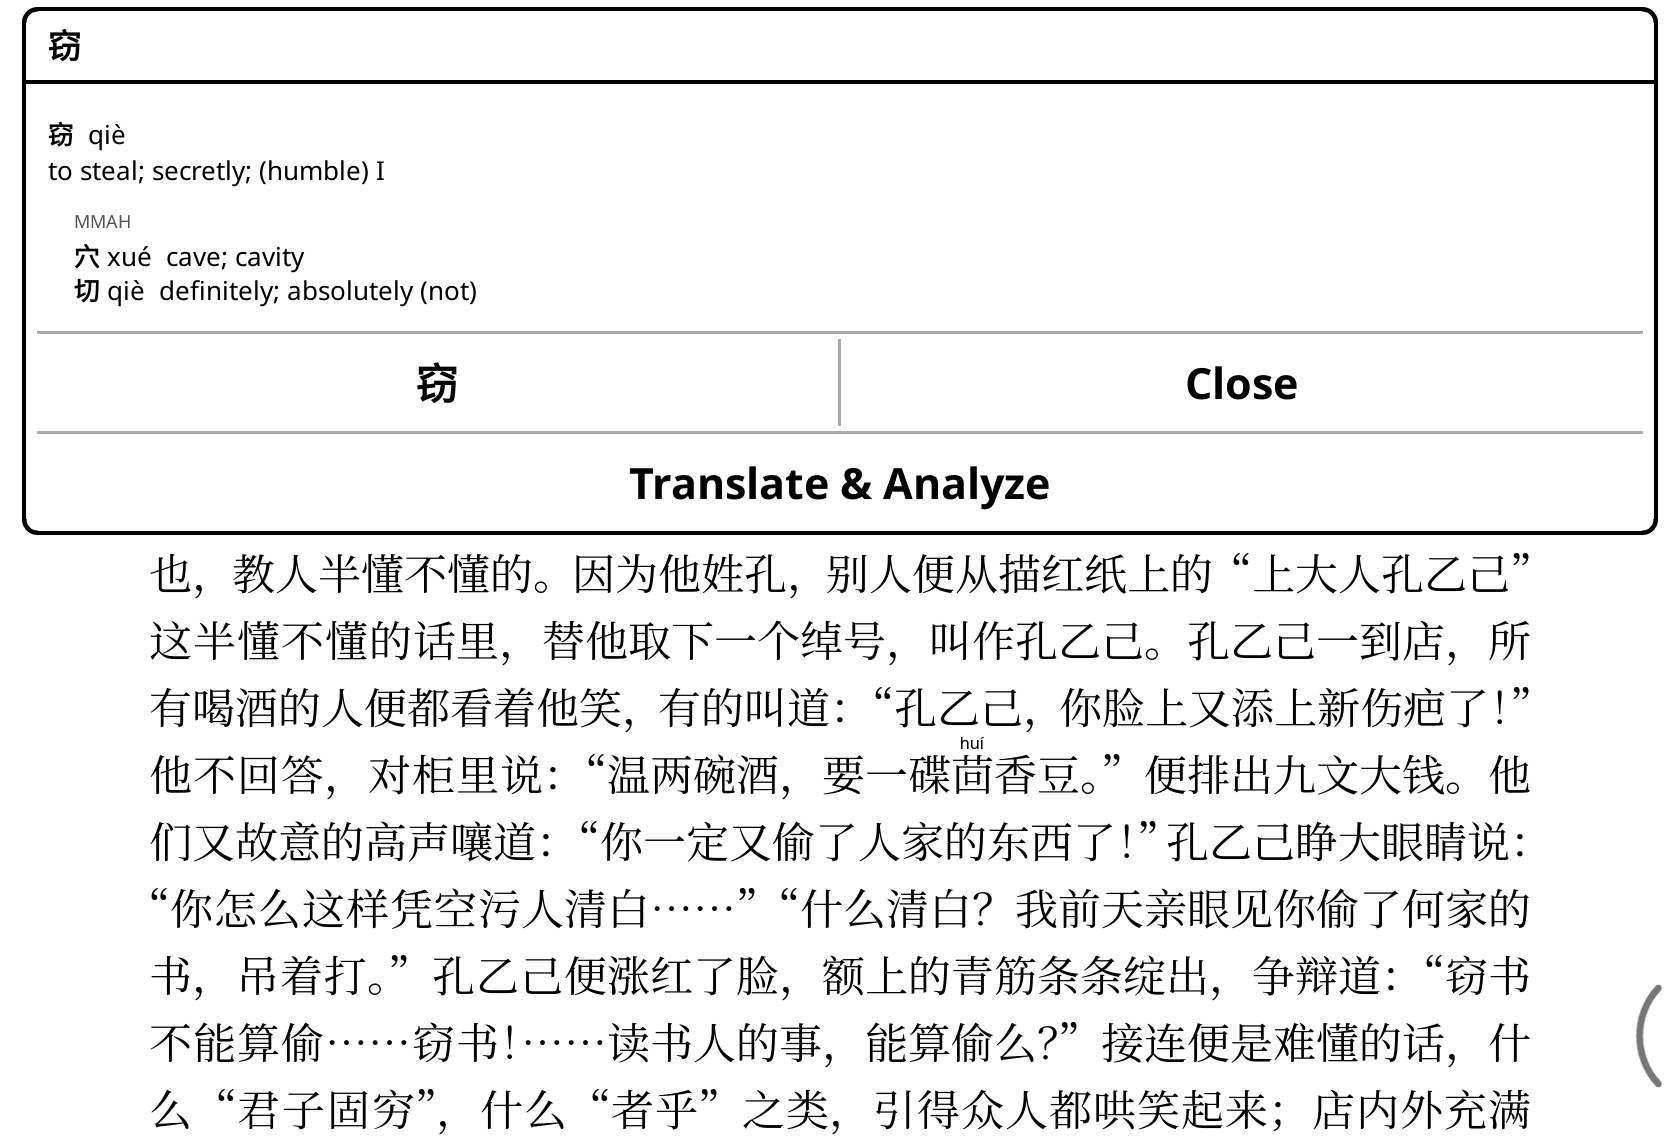
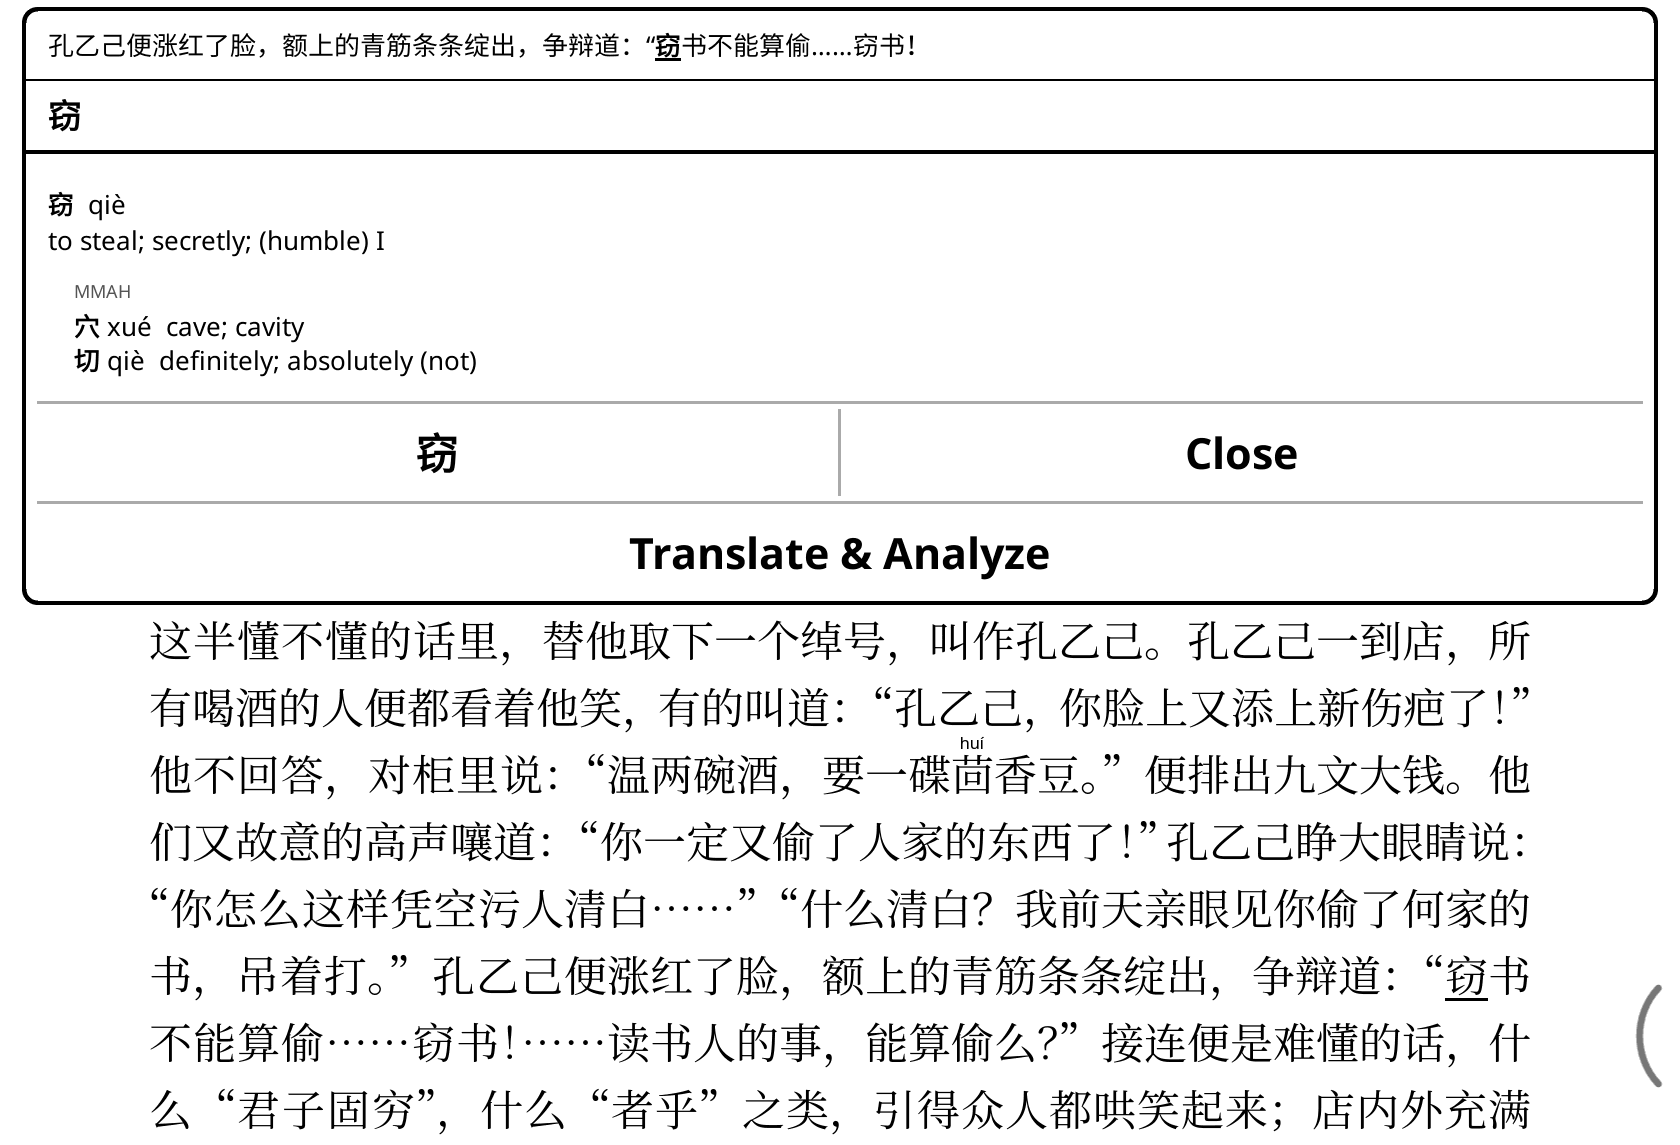
Release 2.0.0: context line and page underline
Version 2.0.0, CHANGELOG with a since-1.0 summary, README text for the
popup's context line and the page underline, new gated screenshots (main
image now taps 密 so the line shows text on both sides), handoff removed.
Database unchanged (SHA-256 20cc7ff8…).

diff --git a/tools/make_screenshots.py b/tools/make_screenshots.py
@@ -84,9 +84,11 @@ PAGES = {
 # screen position, lines the popup must show), then the crop (y0, y1) of each
 # frame: frame 0 is the page before any tap, frame k the screen after tap k.
 SHOTS = {
-    "main": dict(page="sg1", taps=[("涓", 1, (520, 1150), [
-        "**涓**  juān", "**氵** shuǐ", "**肙** yuān", "→ sound (same ending)",
-        "[Wikt]", "**中涓**  zhōngjuān", "(archaic) eunuch"])],
+    # 密, two thirds into the page's longest sentence: the popup's context
+    # line shows text on both sides of it.
+    "main": dict(page="sg1", taps=[("密", 1, (172, 1150), [
+        "**密**  mì", "**宓** mì  still; silent  → sound (same sound)", "**山** shān  mountain  → meaning",
+        "[Wikt]", "**不密**  bùmì", "(literary) not well thought out; (literary) not secret"])],
         frames=[(1, (95, 1185))]),
     "context": dict(page="kyj14", taps=[("间", 1, (773, 500), [
         "**间**  jiàn · likely here", "**间或**  jiànhuò · decides 间's reading"])],
@@ -94,7 +96,7 @@ SHOTS = {
     "components": dict(page="kyj13", taps=[("茴", 1, (988, 790), [
         "**茴**  huí", "**艹** cǎo  grass; plant (草字头)  → meaning",
         "**回** huí  to go back; to return  → sound (same sound)", "**茴香豆**  huíxiāngdòu"])],
-        frames=[(1, (245, 1018))]),
+        frames=[(1, (247, 1019))]),
     "traditional": dict(page="aq59", taps=[("观", 1, (170, 965), [
         "**观**  guān · likely here", "traditional 觀:", "**雚** guàn", "→ sound (same sound)",
         "simplified: 雚 → 又", "**观音**  Guānyīn · decides 观's reading"])],
@@ -104,7 +106,7 @@ SHOTS = {
         frames=[(1, (140, 1120)), (2, (20, 700))]),
     "labels": dict(page="sg1", taps=[("秋", 1, (775, 665), [
         "**秋**  qiū", "[MMAH]", "[MOE]", "**秋月春风**  qiū yuè chūn fēng", "[Wikt]", "**秋月**  qiūyuè"])],
-        frames=[(1, (125, 1138))]),
+        frames=[(1, (127, 1137))]),
     "translate": dict(page="kyj13", taps=[("窃", 1, (1465, 995), ["**窃**  qiè"])],
         frames=[(1, (15, 1160))]),
     # Page 1 with pinyin off, then on: the plugin adds line space where it
@@ -163,7 +165,8 @@ def settings_variant(original, pinyin=True):
     keys = {"chinesehelper_threshold": THRESHOLD, "chinesehelper_pinyin_enabled": "true" if pinyin else "false",
             "chinesehelper_popup_enabled": "true", "chinesehelper_popup_text_pct": 60,
             "chinesehelper_labels": '"fallback"', "chinesehelper_uncertain": '"both"',
-            "chinesehelper_components": "true", "night_mode": "false", "autowarmth_control_nightmode": "false",
+            "chinesehelper_components": "true", "chinesehelper_popup_context": "true",
+            "chinesehelper_page_underline": "true", "night_mode": "false", "autowarmth_control_nightmode": "false",
             "debug": "true"}
     out = original
     for k in keys:

diff --git a/README.md b/README.md
@@ -11,24 +11,24 @@ the reading the character takes in this context: 行 is *háng* in 银行 but *x
 cutoff you choose: the hard ones get help and the rest of the page stays clean. It works on any
 reflowable book (EPUB, FB2, MOBI, TXT and the like) as soon as you open it.
 
-![The opening of 三国演义 第一回 on a Boox Go 7: the chapter title, and below the popup the last lines of the 话说天下大势 paragraph with pinyin above the rare characters only (gù over 锢, huàn over 宦, juān over 涓). The popup is open on 涓: juān, "brook; to select", "Juān: surname Juan"; its parts, labelled MMAH: 氵 shuǐ water → meaning, 肙 yuān "a small worm; to twist" → sound (same ending); then 中涓 zhōngjuān "(archaic) eunuch", labelled Wikt; buttons 涓, 中涓, Close and Translate & Analyze](docs/main.png)
+![The opening of 三国演义 第一回 on a Boox Go 7: the chapter title, then the popup on 密. At its top, the line 时有宦官曹节等弄权，窦武、陈蕃谋诛之，作事不密，反为所害，中涓自此愈横。 with 密 in bold and underlined; then 密 mì, "dense; close; … (bound form) secret; confidential …", "Mì: surname Mi"; its parts, labelled Wikt: 宓 mì still; silent → sound (same sound), 山 shān mountain → meaning; then 不密 bùmì "(literary) not well thought out; (literary) not secret", labelled Wikt; buttons 密, 不密, Close and Translate & Analyze. Below the popup, the last lines of the 话说天下大势 paragraph, with juān above 涓 and 密 underlined on the page](docs/main.png)
 
 <table>
 <tr>
 <td width="50%"><a href="#line-spacing"><img src="docs/off-on.png" alt="The 临江仙 that opens 三国演义, pinyin off (top) and on (bottom): with it on, only 樵 qiáo and 渚 zhǔ get pinyin, the rest of the page stays clean"></a><br><b>Pinyin only above the hard characters</b>, at the level you choose (here the default: outside the 3,500 most common)</td>
-<td width="50%"><a href="#the-popup"><img src="docs/context.png" alt="Popup for 间 in 孔乙己's 虽然间或没有现钱: 间 jiàn · likely here, jiān listed after it; 间或 jiànhuò · decides 间's reading, occasionally; now and then"></a><br><b>The reading it has here</b>, and the word that decides it: 间 is <i>jiàn</i> in 间或</td>
+<td width="50%"><a href="#the-popup"><img src="docs/context.png" alt="Popup for 间 in 孔乙己's 虽然间或没有现钱: at the top the line 但他在我们店里，品行却比别人都好，就是从不拖欠；虽然间或没有现钱，… with 间 marked; 间 jiàn · likely here, jiān listed after it; 间或 jiànhuò · decides 间's reading, occasionally; now and then"></a><br><b>The reading it has here</b>, and the word that decides it: 间 is <i>jiàn</i> in 间或</td>
 </tr>
 <tr>
-<td><a href="#character-components"><img src="docs/components.png" alt="Popup for 茴 in 孔乙己's 要一碟茴香豆: 茴 huí; its parts, labelled Wikt: 艹 cǎo grass; plant (草字头) → meaning, 回 huí to go back → sound (same sound); then 茴香豆 and 茴香"></a><br><b>What each character is made of</b>: 茴 is 艹 for the meaning and 回 <i>huí</i> for the sound</td>
-<td><a href="#character-components"><img src="docs/traditional.png" alt="Popup for 观 in 阿Q正传's 观音娘娘: 观 guān · likely here; traditional 觀: 雚 guàn (archaic) stork; heron → sound (same sound), 見 jiàn see → meaning, simplified: 雚 → 又; 观音 Guānyīn · decides 观's reading"></a><br><b>Parts the simplification hid</b>: 观 is read through 觀, 雚 <i>guàn</i> → sound</td>
+<td><a href="#character-components"><img src="docs/components.png" alt="Popup for 茴 in 孔乙己's 要一碟茴香豆: at the top the line 他不回答，对柜里说：“温两碗酒，要一碟茴香豆。” with 茴 marked; 茴 huí; its parts, labelled Wikt: 艹 cǎo grass; plant (草字头) → meaning, 回 huí to go back → sound (same sound); then 茴香豆 and 茴香"></a><br><b>What each character is made of</b>: 茴 is 艹 for the meaning and 回 <i>huí</i> for the sound</td>
+<td><a href="#character-components"><img src="docs/traditional.png" alt="Popup for 观 in 阿Q正传's 观音娘娘: at the top the line …而且又不见了观音娘娘座前的一个宣德炉。 with 观 marked; 观 guān · likely here; traditional 觀: 雚 guàn (archaic) stork; heron → sound (same sound), 見 jiàn see → meaning, simplified: 雚 → 又; 观音 Guānyīn · decides 观's reading"></a><br><b>Parts the simplification hid</b>: 观 is read through 觀, 雚 <i>guàn</i> → sound</td>
 </tr>
 <tr>
-<td><a href="#chengyu"><img src="docs/chengyu.png" alt="Popup for 也 in 孔乙己's 满口之乎者也: 满口之乎者也 and 之乎者也 from CC-CEDICT, 之乎者也 with a Chinese line labelled 新华: 这四个字都是文言虚词，讽刺人说话喜欢咬文嚼字。也形容半文不白的话或文章。; a 出处 button"></a><br><b>Chengyu explained</b>: 之乎者也 with Xinhua's line (optional file) …</td>
+<td><a href="#chengyu"><img src="docs/chengyu.png" alt="Popup for 也 in 孔乙己's 满口之乎者也: at the top the line 他对人说话，总是满口之乎者也，教人半懂不懂的。 with 也 marked; then 也 yě, 满口之乎者也 and 之乎者也 from CC-CEDICT, 之乎者也 with a Chinese line labelled 新华: 这四个字都是文言虚词，讽刺人说话喜欢咬文嚼字。也形容半文不白的话或文章。; a 出处 button"></a><br><b>Chengyu explained</b>: 之乎者也 with Xinhua's line (optional file) …</td>
 <td><a href="#chengyu"><img src="docs/chengyu-2.png" alt="The 出处 view for 之乎者也 from 新华成语: 释义; 出处 宋·文莹《湘山野录》：“之乎者也，助得甚事？”; 例句 他对人说话，总是满口之乎者也，叫人半懂不懂的。"></a><br>… and its <b>出处</b>: the classical source and an example (this very line of 孔乙己)</td>
 </tr>
 <tr>
-<td><a href="#fallback-dictionaries"><img src="docs/labels.png" alt="Popup for 秋 in the 临江仙's 惯看秋月春风: 秋 qiū from CC-CEDICT; its parts 禾 and 火 labelled MMAH; 秋月春风 labelled MOE with its Chinese definition; 秋月 labelled Wikt; a 出处 button"></a><br><b>Several dictionaries, each labelled</b>: CC-CEDICT, then MOE (optional) and Wiktionary for 秋月春风 and 秋月</td>
-<td><a href="#translating-the-sentence"><img src="docs/translate.png" alt="Popup for 窃 at the top of the page, with a Translate &amp; Analyze button; below it the page of 孔乙己 with the line 窃书不能算偷……窃书！……读书人的事，能算偷么？"></a><br><b>Translate &amp; Analyze the sentence</b> with KOAssistant (while Wi-Fi is on): here 孔乙己's 窃书不能算偷</td>
+<td><a href="#fallback-dictionaries"><img src="docs/labels.png" alt="Popup for 秋 in the 临江仙's 惯看秋月春风: at the top the line 白发渔樵江渚上，惯看秋月春风。 with 秋 marked; 秋 qiū from CC-CEDICT; its parts 禾 and 火 labelled MMAH; 秋月春风 labelled MOE with its Chinese definition; 秋月 labelled Wikt; a 出处 button"></a><br><b>Several dictionaries, each labelled</b>: CC-CEDICT, then MOE (optional) and Wiktionary for 秋月春风 and 秋月</td>
+<td><a href="#translating-the-sentence"><img src="docs/translate.png" alt="Popup for 窃 at the top of the page, its line 孔乙己便涨红了脸，额上的青筋条条绽出，争辩道：“窃书不能算偷……窃书！ with 窃 marked, and a Translate &amp; Analyze button; below it the page of 孔乙己, 窃 underlined in the line 窃书不能算偷……窃书！……读书人的事，能算偷么？"></a><br><b>Translate &amp; Analyze the sentence</b> with KOAssistant (while Wi-Fi is on): here 孔乙己's 窃书不能算偷</td>
 </tr>
 </table>
 
@@ -44,6 +44,8 @@ with every optional dictionary installed. `tools/make_screenshots.py` takes them
 - **Five pinyin levels**, from outside the 1,500 to outside the 7,000 most common characters;
   common characters in an unusual reading (单 in 单于) get pinyin too
   ([Unusual readings](#unusual-readings-of-common-characters)).
+- **The sentence on one line** at the top of every popup, the character marked, and the
+  character underlined on the page while the popup is open ([The popup](#the-popup)).
 - **Translate** uses KOReader's built-in translator when KOAssistant is not installed
   ([Translating the sentence](#translating-the-sentence)).
 - **Pinyin and popup are separate switches**; nothing is prepared per book, the book file is
@@ -119,6 +121,8 @@ Tools menu). Settings apply to all books.
 | Edge pass-through width | 0 mm (off) / 2.5 mm / 5 mm (default) / 7.5 mm / 10 mm. See [What a tap does](#what-a-tap-does) |
 | Popup text size | 40 / 60 (default) / 80 / 100 / 120% of the book's text size |
 | Show character components | On (default) / off. See [Character components](#character-components) |
+| Show the text around the character in the popup | On (default) / off. See [The popup](#the-popup) |
+| Underline the tapped character on the page | On (default) / off. See [The popup](#the-popup) |
 | Fallback dictionaries | Source labels (all entries / other dictionaries only (default) / none); then each dictionary on/off, in order: Wiktionary, CBDB office titles, MOE 重編國語辭典, MOE 成語典, Xinhua idioms, Wikipedia titles, Moegirlpedia slang. See [Fallback dictionaries](#fallback-dictionaries) |
 | Status | Version, data versions and load times, each fallback dictionary (version, entries, on or off, or not installed), what the current page needed, and any old plugin still installed |
 
@@ -155,6 +159,11 @@ punctuation, a paragraph break or any non-Chinese character) and looks up every 
 stretch containing the tapped character, in simplified and traditional forms. Nothing guesses
 where the words break.
 
+- **The text around the character**, on one line at the top: as much of its sentence as fits,
+  at the popup's text size, the character in bold and underlined. It grows outwards from the
+  character, a cut side ends in "…", and it stops at a sentence end, a paragraph break or the
+  edge of the page. Popups from KOReader's dictionary that the word buttons open get the line
+  too, with the whole word marked.
 - **The tapped character first**, with all its readings. The reading it has here comes first,
   marked **· shown above** when its pinyin is drawn, or **· likely here** when not. When nothing
   decides between its two likely readings, both are marked **· one of these**, the likelier
@@ -175,10 +184,11 @@ where the words break.
 
 The popup is the full width of the screen (minus a small margin) and as tall as its content, up
 to the full screen height, scrolling beyond that. A short popup goes in the half of the screen
-away from the tapped character, so the text stays visible. A taller one starts with the phrase
-around the character, the character in bold:
+away from the tapped character, so the text stays visible; a taller one is centred. While it is
+open, the tapped character is **underlined on the page**, so you can see which one the tap hit;
+the underline goes when the popup closes.
 
-![A tall popup over a page of 阿Q正传: the phrase 而且又不见了观音娘娘座前的一 at the top with 观 in bold, then 观 guān · likely here, its traditional form 觀's parts, and 观音 Guānyīn · decides 观's reading](docs/traditional.png)
+![A tall popup for 观 in 阿Q正传: at the top the line 尼姑待他们走后，定了神来检点，龙牌固然已经碎在地上了，而且又不见了观音娘娘座前的一个宣德炉。 with 观 in bold and underlined, then 观 guān · likely here, its traditional form 觀's parts, and 观音 Guānyīn · decides 观's reading](docs/traditional.png)
 
 ### Character components
 
@@ -543,14 +553,16 @@ tools/deploy.sh "/sdcard/Books/book.epub"   # check, push to a USB-connected And
 .venv/bin/python tools/eval_readings.py     # reading accuracy on the CPP test split (--fallback none: without Wiktionary's words)
 .venv/bin/python tools/scan_special.py BOOK.epub   # the unusual readings a book gets
 .venv/bin/python tools/make_test_epub.py build/chinesehelper-test.epub   # a book for tap tests on a device
+.venv/bin/python tools/make_snippet_epub.py build/chinesehelper-snippet.epub   # a book for testing the popup's line of text on a device
 .venv/bin/python tools/make_sample_epub.py  # the sample books in samples/
 .venv/bin/python tools/make_screenshots.py  # the README screenshots, over adb (see below)
 ```
 
 The tests (`tests/run.py`, LuaJIT through lupa) cover the reading resolver, page walking,
 layout, hit testing and the edge band, the popup's content and placement, the components, the
-sentence finder and Translate button, the settings migration, the menu, and the database code
-(its real SQL against the built database). `test_integration.lua` checks that the popup marks the
+popup's line of text around the character, the sentence finder and Translate button, the
+settings migration, the menu, and the database code (its real SQL against the built database).
+`test_integration.lua` checks that the popup marks the
 reading the pinyin layer draws. `tools/check.sh` also runs the build's Python
 unit tests (`tests/test_*.py`, needs OpenCC): the simplified-text converter and the idiom files'
 text repairs.
@@ -570,6 +582,7 @@ text repairs.
 | `ch_context.lua`, `ch_text.lua` | tap → character → the characters around it; candidate words |
 | `ch_pinyin.lua` | pinyin comparisons |
 | `ch_popup_model.lua`, `ch_popup.lua` | what the popup shows, and the popup |
+| `ch_snippet.lua` | the line of text around the tapped character, at the top of the popup |
 | `ch_components.lua` | the character components lines |
 | `ch_sentence.lua` | the sentence around the tapped character |
 | `ch_translate.lua` | the Translate button: KOAssistant (with the prompt snapshot) or KOReader's translator |

diff --git a/CHANGELOG.md b/CHANGELOG.md
@@ -1,5 +1,77 @@
 # Changelog
 
+## 2.0.0 (2026-11-13)
+
+The major version marks how far the plugin has come since 1.0. Nothing breaks: settings, the
+database and the optional dictionary files all carry over. Since 1.0.0:
+
+- **One plugin** for pinyin above rare characters and tap-to-define (1.0.0, merging
+  koreader-interlinear-pinyin and koreader-chinese-popup), with an edge band that keeps page
+  turns reliable and a choice of popup text sizes (1.1.0).
+- **More dictionaries, each labelled**: Wiktionary (bundled) and MOE 重編國語辭典 for words
+  CC-CEDICT lacks (1.2.0), Wikipedia titles, CBDB office titles and Moegirlpedia slang (1.5.0),
+  the 成語典 and Xinhua idioms (1.9.0); a small grey line names each entry's source.
+- **Better readings**: Wiktionary words settle uncertain readings (1.4.0), word readings from
+  pypinyin's phrase list, neutral particles and hand-checked words (1.6.0), mainland neutral
+  tones (1.6.1).
+- **Character components**: what a character is made of, which part gives the meaning and which
+  the sound, and the parts a simplification hid (1.7.0).
+- **Simplified characters** in all explanatory text (1.8.0).
+- **Chengyu explained, with their source**: a line of Chinese explanation and a 出处 view with
+  the classical passage, story and examples (1.9.0).
+- **Translate & Analyze** the sentence with KOAssistant or KOReader's translator (1.3.0).
+- **A new README** with gated screenshots from a public-domain sample book (1.9.1, 1.9.2).
+- **This release**: the text around the tapped character at the top of every popup, and an
+  underline under the character on the page.
+
+Popup
+- **The text around the character, on one line at the top.** Every popup opened from a tap on
+  the book now starts with as much of the character's sentence as fits on one line, at the
+  popup's text size, with the character in bold and underlined
+  (时有宦官曹节等弄权，窦武、陈蕃谋诛之，作事不**密**，反为所害，中涓自此愈横。). It grows outwards from
+  the character, the shorter side first, and a side that is cut ends in "…". It never goes past a
+  sentence end (。！？, and . ! ? before a space, with any closing quotes or brackets after it), a
+  paragraph break or the edge of the page: after 。” the line starts with the next sentence, not
+  the ”. Line breaks and runs of spaces in the book's source, `<br/>` included, become nothing
+  between Chinese characters and one space next to Latin text.
+- **Replaces the old phrase header**, which showed the run of Chinese characters around the
+  tapped one, and only when the popup covered it. With the new line off there is no line at all.
+- **KOReader's dictionary popup gets the line too** when opened from the popup's word and
+  character buttons (or when no dictionary has the character, so the tap goes straight to
+  KOReader's lookup). A word button marks the whole word. The dictionary popup keeps its size and
+  place: the definition gives up a line or two, which it scrolls. Other lookups are unchanged.
+  This uses KOReader internals (checked on v2026.07.1); if they change, the popup opens without
+  the line and the error is logged.
+- Every popup is one line taller (84 px on a Boox Go 7 at 60%), so some that fit in half the
+  screen are now centred.
+
+Page
+- **The tapped character is underlined on the page** while the popup is open, so you can see
+  which character the tap hit. It is drawn by the plugin's own page layer (also with pinyin off),
+  clears however the popup closes (tap outside, Close, Back, Translate, closing the dictionary
+  popup a word button opened), and moves with the next tap. It sits clear of the pinyin on the
+  line below. The e-ink refresh covers only the line; no ghost is left after it clears.
+
+Menu
+- **Show the text around the character in the popup** and **Underline the tapped character on
+  the page**, both on by default, right after **Show character components**.
+
+Speed: reading the page text for the line takes 1–4 ms per tap; page turns are unchanged.
+
+Known limits
+- In continuous (scroll) view the line can include text just below the screen.
+- A dictionary lookup that never opens a popup leaves the underline until the next tap or page
+  turn.
+
+README
+- New screenshots: every popup now shows the line. The main image taps 密 in
+  作事不密 (the line shows text on both sides, and 密 is underlined on the page) instead of 涓.
+  The screenshot script pins both new settings on, and two crops start exactly at the popup's
+  frame.
+
+Unchanged: the plugin database (byte-identical to 1.9.0, SHA-256 `20cc7ff8…`), the pinyin drawn,
+every reading.
+
 ## 1.9.2 (2026-11-13)
 
 README
